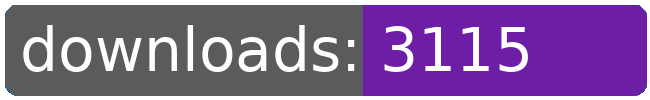
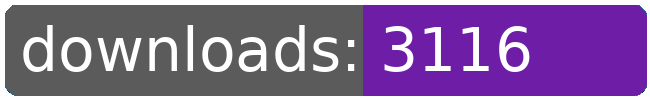
dl log written

Changed region(s): [[0.7692, 0.39, 0.8308, 0.72], [0.7692, 0.24, 0.8308, 0.36]]

diff --git a/README.md b/README.md
@@ -54,8 +54,8 @@
 		<td>3061</td>
 		<td>3087</td>
 		<td>3109</td>
-		<td>3115</td>
-		<td>+ 6</td>
+		<td>3116</td>
+		<td>+ 7</td>
 	</tr>
 	<tr>
 		<td>capture.archons</td>
@@ -76,8 +76,8 @@
 		<td>1731</td>
 		<td>1754</td>
 		<td>1776</td>
-		<td>1782</td>
-		<td>+ 6</td>
+		<td>1783</td>
+		<td>+ 7</td>
 	</tr>
 	<tr>
 		<td>capturingpower</td>
@@ -252,8 +252,8 @@
 		<td></td>
 		<td></td>
 		<td></td>
-		<td>42054</td>
-		<td>106</td>
+		<td>42056</td>
+		<td>108</td>
 	</tr>
 </table>
 </sub></sup>
@@ -289,8 +289,8 @@
 		<td>3061</td>
 		<td>3087</td>
 		<td>3109</td>
-		<td>3115</td>
-		<td>+ 6</td>
+		<td>3116</td>
+		<td>+ 7</td>
 	</tr>
 	<tr>
 		<td>1requiredcrew</td>
@@ -421,8 +421,8 @@
 		<td>1731</td>
 		<td>1754</td>
 		<td>1776</td>
-		<td>1782</td>
-		<td>+ 6</td>
+		<td>1783</td>
+		<td>+ 7</td>
 	</tr>
 	<tr>
 		<td>unlock.hai.reveal</td>
@@ -509,8 +509,8 @@
 		<td></td>
 		<td></td>
 		<td></td>
-		<td>42054</td>
-		<td>106</td>
+		<td>42056</td>
+		<td>108</td>
 	</tr>
 </table>
 </sub></sup>
